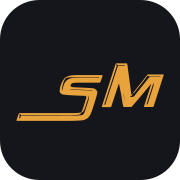
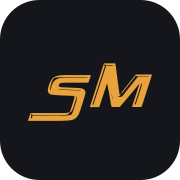
StageMate v0.6.6 · Build 85
Claude-Session: https://claude.ai/code/session_01G3z7oRcgy9Gda5m4Ku4fjU

Changed region(s): [[0.25, 0.3333, 0.9167, 0.6944], [0.0833, 0.6111, 0.1944, 0.6944], [0.3333, 0.6389, 0.3611, 0.6667]]

diff --git a/index.html b/index.html
@@ -1,18 +1,18 @@
 <!DOCTYPE html>
-<!-- StageMate v0.6.5 · Build 84 · 2026-11-27 -->
+<!-- StageMate v0.6.6 · Build 85 · 2026-11-27 -->
 <html lang="de">
 <head>
 <meta charset="UTF-8">
 <meta name="viewport" content="width=device-width, initial-scale=1">
-<title>StageMate v0.6.5</title>
-<link rel="icon" type="image/svg+xml" href="icon.svg?sm1">
-<link rel="icon" type="image/png" sizes="32x32" href="icon-32.png?sm1">
-<link rel="apple-touch-icon" href="icon-180.png?sm1">
+<title>StageMate v0.6.6</title>
+<link rel="icon" type="image/svg+xml" href="icon.svg?sm2">
+<link rel="icon" type="image/png" sizes="32x32" href="icon-32.png?sm2">
+<link rel="apple-touch-icon" href="icon-180.png?sm2">
 <link rel="manifest" href="manifest.webmanifest">
 <meta name="theme-color" content="#15161c">
 <link rel="preconnect" href="https://fonts.googleapis.com">
 <link href="https://fonts.googleapis.com/css2?family=Inter:wght@400;500;600;700&display=swap" rel="stylesheet">
-<link rel="stylesheet" href="app.css?v0.6.5">
+<link rel="stylesheet" href="app.css?v0.6.6">
 <script>
   (function () {
     var t = 'system';
@@ -27,7 +27,7 @@
 <template id="logoTpl">
   <svg viewBox="0 0 512 512" aria-label="StageMate-Logo (SM)">
     <rect width="512" height="512" rx="128" fill="#e8a33d"/>
-    <path fill="#15161c" transform="translate(4.734,-314.354) scale(9.17031)" d="m 31.184638,57.555431 q 0.06201,0 0.12919,0.175699 -0.666623,2.103224 -0.744138,2.103224 -0.144693,0.08785 -0.263549,0.08785 h -6.666238 q -2.015375,0 -2.015375,0.397907 -0.263549,0.191202 -0.263549,0.568439 0,0.480589 1.576126,0.480589 5.875592,0.191203 5.875592,0.439249 0.878497,0.439248 0.878497,1.271236 0,0.346231 -1.488277,4.955754 -0.568439,1.95853 -1.405594,2.76468 -0.98185,0.878497 -2.806022,0.878497 -1.147213,0.08785 -3.245269,0.08785 H 4.721221 q -0.062011,0 -0.1291907,-0.175699 0.6562886,-2.087721 0.7906469,-2.196241 l 0.2170403,-0.04134 H 22.192967 q 2.542472,0 2.542472,-0.351399 0.227376,0 1.534786,-4.428656 v -0.175699 q 0,-0.39274 -0.702798,-0.39274 -6.971128,-0.206705 -6.971128,-0.573607 -0.614948,-0.356566 -0.614948,-1.049028 v -0.08785 q 0.222208,-1.999872 1.317745,-3.508819 0.904335,-1.229895 4.035917,-1.229895 z m -12.500489,4.252957 v 0.351398 l 0.04651,0.222208 h 0.04134 q 0.454751,-1.927525 0.831988,-2.45979 0.878497,-1.534785 3.203929,-1.534785 0.563271,-0.04134 1.886183,-0.04134 h 5.482852 q 0.08268,0 0.08268,-0.08785 v -0.04651 h -7.451718 q -2.650993,0 -2.94038,0.351399 -0.769976,0.749306 -1.183386,3.24527 z m 2.588981,0.08785 v 0.08785 q 0,0.175699 5.829083,0.351399 0,0.02584 1.188554,0.134358 0,-0.279052 -3.379628,-0.351399 -2.930045,-0.103352 -3.638009,-0.222208 z m 5.658551,2.149733 v 0.310058 q 0,0.284219 -0.614948,1.927524 -0.749306,2.806022 -1.405594,2.806022 -0.124023,0.04651 -0.568439,0.656288 -0.620115,0.263549 -3.203929,0.263549 -12.9138991,-0.04134 -14.1799676,-0.04134 -0.60978,0.04134 -0.7854793,0.04134 -0.077514,0 -0.6149476,-0.351398 h -0.08785 q 0,0.08268 0.1291906,0.573606 -0.1756993,0.506428 -0.1756993,0.744139 0.046509,0 0.046509,0.04134 0.3100576,0 0.3927396,-0.568439 0,-0.30489 0.3927396,-0.30489 h 16.154001 q 2.986889,0 2.986889,-0.485757 0.372069,-0.39274 1.312577,-3.596669 0.351399,-0.82682 0.351399,-1.622634 l -0.04134,-0.39274 z m 8.609273,-10.128548 h 3.286611 q 0.191202,0 0.527098,3.157419 0,0.08268 0.878497,6.578389 h 0.04134 q 0.263548,-0.242878 0.263548,-0.351398 h 0.08785 v 0.04134 q -0.232543,0.749306 -0.568439,0.749306 l -0.222208,0.04134 v 0.134358 q 0.28422,0.08785 0.397908,0.08785 h 0.08785 q 0.759641,0 0.961179,-0.485757 4.113431,-5.2038 4.516506,-5.658552 0.23771,-0.04134 0.397907,-0.04134 h 2.98172 q 0.08785,0 0.08785,-0.08785 v -0.04134 H 46.28445 q -0.403074,0 -1.007687,-0.263549 h -0.04651 q -0.382405,0.604612 -1.405595,1.881016 l -2.847362,3.555327 h -0.04651 q -0.10852,0 -0.129191,-0.175699 0.103353,-0.191202 4.428657,-5.612043 l 0.263549,-0.04651 H 50.1395 q 0.06718,0 0.134358,0.134359 0,0.134358 -3.15742,9.823658 -0.160196,0.129191 -0.30489,0.129191 h -2.54764 q -0.06201,0 -0.12919,-0.175699 0.439248,-1.271237 2.278923,-7.017638 H 46.3723 q -5.043604,6.051291 -6.097799,7.193337 h -2.413282 q -0.253214,0 -0.919838,-4.563015 -0.05684,-0.01034 -0.527098,-2.630322 h -0.08785 q -2.015375,6.226991 -2.366773,7.151996 l -0.129191,0.08785 h -2.676831 q -0.08785,0 -0.08785,-0.08785 v -0.08785 q 0,-0.12919 3.901558,-12.107749 0.366901,-1.312577 0.573606,-1.312577 z m 0,0.263548 v 0.04134 q 0,0.12919 0.129191,0.573606 L 31.809928,66.7228 q 0.08785,0.04134 0.134358,0.04134 0.30489,0 0.30489,-0.439249 l 3.813709,-11.616825 h 2.149732 V 54.57371 l -0.21704,-0.04134 h -1.886184 l -0.480589,-0.3514 z m 11.487635,5.875592 q 0,0.186035 -1.751826,5.482852 l -0.351398,1.136878 h 0.12919 q 0.279052,0 0.351399,-0.527098 1.710484,-5.09528 1.710484,-5.477684 v -0.397908 l -0.04651,-0.21704 z m -9.25522,3.24527 v 0.08785 q 0.263549,1.617468 0.263549,1.798335 h 0.04651 V 65.053659 Q 37.819879,63.44136 37.819879,63.301834 Z"/>
+    <path fill="#15161c" transform="translate(-28.921,-314.354) scale(9.17031)" d="M 31.1846 57.5554 Q 31.2466 57.5554 31.3138 57.7311 Q 30.6472 59.8344 30.5697 59.8344 Q 30.4250 59.9222 30.3061 59.9222 L 23.6399 59.9222 Q 21.6245 59.9222 21.6245 60.3201 Q 21.3610 60.5113 21.3610 60.8885 Q 21.3610 61.3691 22.9371 61.3691 Q 28.8127 61.5603 28.8127 61.8084 Q 29.6912 62.2476 29.6912 63.0796 Q 29.6912 63.4259 28.2029 68.0354 Q 27.6345 69.9939 26.7973 70.8001 Q 25.8155 71.6786 23.9913 71.6786 Q 22.8441 71.7664 20.7460 71.7664 L 11.9953 71.7664 Q 11.9333 71.7664 11.8661 71.5907 Q 12.5224 69.5030 12.6568 69.3945 L 12.8738 69.3531 L 22.1930 69.3531 Q 24.7354 69.3531 24.7354 69.0017 Q 24.9628 69.0017 26.2702 64.5731 L 26.2702 64.3974 Q 26.2702 64.0046 25.5674 64.0046 Q 18.5963 63.7979 18.5963 63.4310 Q 17.9814 63.0745 17.9814 62.3820 L 17.9814 62.2941 Q 18.2036 60.2943 19.2991 58.7853 Q 20.2034 57.5554 23.3350 57.5554 Z  M 18.6841 61.8084 L 18.6841 62.1598 L 18.7307 62.3820 L 18.7720 62.3820 Q 19.2268 60.4545 19.6040 59.9222 Q 20.4825 58.3874 22.8079 58.3874 Q 23.3712 58.3461 24.6941 58.3461 L 30.1770 58.3461 Q 30.2596 58.3461 30.2596 58.2582 L 30.2596 58.2117 L 22.8079 58.2117 Q 20.1569 58.2117 19.8675 58.5631 Q 19.0976 59.3124 18.6841 61.8084 Z  M 21.2731 61.8962 L 21.2731 61.9841 Q 21.2731 62.1598 27.1022 62.3355 Q 27.1022 62.3613 28.2908 62.4698 Q 28.2908 62.1908 24.9111 62.1184 Q 21.9811 62.0151 21.2731 61.8962 Z  M 26.9317 64.0460 L 26.9317 64.3560 Q 26.9317 64.6402 26.3167 66.2836 Q 25.5674 69.0896 24.9111 69.0896 Q 24.7871 69.1361 24.3427 69.7459 Q 23.7226 70.0094 21.1388 70.0094 Q 15.4990 69.9681 14.2329 69.9681 Q 13.6231 70.0094 13.4474 70.0094 Q 13.3699 70.0094 12.8325 69.6580 L 12.7446 69.6580 Q 12.7446 69.7407 12.8738 70.2316 Q 12.6981 70.7380 12.6981 70.9758 Q 12.7446 70.9758 12.7446 71.0171 Q 13.0547 71.0171 13.1374 70.4487 Q 13.1374 70.1438 13.5301 70.1438 L 22.4100 70.1438 Q 25.3969 70.1438 25.3969 69.6580 Q 25.7690 69.2653 26.7095 66.0613 Q 27.0609 65.2345 27.0609 64.4387 L 27.0195 64.0460 Z  M 35.5410 53.9174 L 38.8276 53.9174 Q 39.0188 53.9174 39.3547 57.0748 Q 39.3547 57.1575 40.2332 63.6532 L 40.2745 63.6532 Q 40.5380 63.4104 40.5380 63.3018 L 40.6259 63.3018 L 40.6259 63.3432 Q 40.3934 64.0925 40.0575 64.0925 L 39.8353 64.1338 L 39.8353 64.2682 Q 40.1195 64.3560 40.2332 64.3560 L 40.3210 64.3560 Q 41.0807 64.3560 41.2822 63.8703 Q 45.3956 58.6665 45.7987 58.2117 Q 46.0364 58.1704 46.1966 58.1704 L 49.1783 58.1704 Q 49.2662 58.1704 49.2662 58.0825 L 49.2662 58.0412 L 46.2844 58.0412 Q 45.8814 58.0412 45.2768 57.7776 L 45.2303 57.7776 Q 44.8478 58.3823 43.8247 59.6587 L 40.9773 63.2140 L 40.9308 63.2140 Q 40.8223 63.2140 40.8016 63.0383 Q 40.9049 62.8471 45.2303 57.4262 L 45.4938 57.3797 L 50.1395 57.3797 Q 50.2067 57.3797 50.2739 57.5141 Q 50.2739 57.6484 47.1164 67.3377 Q 46.9562 67.4669 46.8115 67.4669 L 44.2639 67.4669 Q 44.2019 67.4669 44.1347 67.2912 Q 44.5740 66.0200 46.4136 60.2736 L 46.3723 60.2736 Q 41.3287 66.3249 40.2745 67.4669 L 37.8612 67.4669 Q 37.6080 67.4669 36.9414 62.9039 Q 36.8845 62.8936 36.4143 60.2736 L 36.3264 60.2736 Q 34.3111 66.5006 33.9597 67.4256 L 33.8305 67.5134 L 31.1536 67.5134 Q 31.0658 67.5134 31.0658 67.4256 L 31.0658 67.3377 Q 31.0658 67.2086 34.9673 55.2300 Q 35.3342 53.9174 35.5410 53.9174 Z  M 35.5410 54.1810 L 35.5410 54.2223 Q 35.5410 54.3515 35.6701 54.7959 L 31.8099 66.7228 Q 31.8978 66.7641 31.9443 66.7641 Q 32.2492 66.7641 32.2492 66.3249 L 36.0629 54.7081 L 38.2126 54.7081 L 38.2126 54.5737 L 37.9956 54.5324 L 36.1094 54.5324 L 35.6288 54.1810 Z  M 47.0286 60.0566 Q 47.0286 60.2426 45.2768 65.5394 L 44.9254 66.6763 L 45.0546 66.6763 Q 45.3336 66.6763 45.4060 66.1492 Q 47.1164 61.0539 47.1164 60.6715 L 47.1164 60.2736 L 47.0699 60.0566 Z  M 37.7734 63.3018 L 37.7734 63.3897 Q 38.0369 65.0072 38.0369 65.1880 L 38.0834 65.1880 L 38.0834 65.0537 Q 37.8199 63.4414 37.8199 63.3018 Z "/>
   </svg>
 </template>
 
@@ -1234,16 +1234,16 @@
   <div class="dev-body" id="devBody"></div>
 </div>
 <div class="housi-mark" aria-hidden="true" title="Housi"><svg xmlns="http://www.w3.org/2000/svg" viewBox="0 0 2000 1484" fill="currentColor"><path transform="translate(-110.1,-235.1)" d="m 1033.6,1718.2 c -7.3,-0.8 -17.9,-3.6 -23.3,-6.2 -14.5,-6.8 -26.8,-24.0 -27.0,-37.9 -0.0,-4.1 0.2,-5.4 1.8,-8.4 1.0,-1.9 2.7,-4.3 3.8,-5.3 3.3,-3.1 10.1,-6.7 16.8,-8.8 7.9,-2.4 42.5,-8.3 49.2,-8.3 8.4,0.0 23.9,3.1 23.9,4.9 0,0.8 -0.4,0.9 -20.5,4.1 -9.5,1.5 -19.7,3.4 -22.6,4.2 -14.6,4.0 -23.0,11.8 -23.0,21.4 0,6.9 5.6,18.6 12.6,26.1 6.4,6.8 8.7,8.2 12.5,7.6 9.2,-1.5 22.8,-7.6 32.8,-14.8 23.8,-17.1 41.0,-52.6 44.4,-91.6 2.1,-25.1 -4.4,-50.5 -22.4,-86.3 l -2.7,-5.5 -27.6,27.8 c -27.5,27.7 -37.9,37.3 -54.5,50.5 -15.5,12.4 -23.1,16.4 -37.2,19.8 -7.2,1.7 -8.6,1.8 -25.7,1.8 -14.7,0.0 -19.2,-0.2 -24.0,-1.2 -17.7,-3.7 -37.1,-12.6 -54.7,-25.1 -29.2,-20.7 -51.8,-59.3 -49.5,-84.3 1.1,-12.6 5.4,-21.5 14.6,-30.8 5.4,-5.4 7.2,-6.7 13.6,-9.9 14.0,-6.9 28.9,-9.5 55.0,-9.5 19.0,-0.0 27.5,0.7 39.8,3.4 8.0,1.7 12.6,3.7 13.8,5.8 1.4,2.7 0.8,4.8 -2.5,8.1 -2.5,2.4 -6.9,4.9 -20.0,11.4 -9.2,4.5 -17.9,8.4 -19.3,8.6 -3.4,0.6 -22.9,0.6 -24.4,0.0 -0.6,-0.2 -1.2,-0.6 -1.2,-0.9 0,-0.2 7.2,-4.0 16.1,-8.4 17.3,-8.5 22.4,-12.1 22.0,-15.3 -0.9,-6.7 -29.5,-10.1 -44.1,-5.2 -22.4,7.6 -36.0,28.6 -33.1,51.3 2.0,16.2 11.5,35.1 26.4,52.9 6.6,7.8 11.4,12.4 19.9,18.7 15.8,11.7 36.1,21.7 50.3,24.6 3.9,0.8 5.0,0.8 8.1,-0.1 4.2,-1.2 10.6,-4.4 15.0,-7.3 5.6,-3.7 22.4,-17.5 32.7,-26.7 9.9,-8.8 50.1,-49.2 69.2,-69.4 8.7,-9.2 9.6,-10.4 8.9,-11.8 -0.8,-1.7 -11.7,-17.1 -14.6,-20.6 l -1.9,-2.3 -2.6,4.4 c -14.9,24.8 -35.5,38.9 -63.4,43.4 -7.0,1.1 -39.6,3.9 -45.8,3.9 -5.6,0 -22.2,-6.4 -25.2,-9.7 -1.1,-1.2 -1.0,-1.3 0.4,-1.6 0.9,-0.1 10.2,-1.0 20.7,-1.8 21.7,-1.6 27.9,-2.5 37.5,-5.6 17.2,-5.5 32.9,-17.1 43.1,-31.9 3.2,-4.7 14.8,-24.0 14.8,-24.7 0,-1.6 -75.4,-80.2 -88.1,-91.9 -5.9,-5.4 -5.9,-5.4 -7.7,-4.3 -0.9,0.6 -5.9,4.1 -10.9,7.8 -11.8,8.6 -40.4,27.8 -50.4,33.7 -11.8,7.1 -43.4,23.9 -60.1,32.0 -17.9,8.6 -35.5,15.9 -50.5,20.9 -49.2,16.2 -66.3,19.8 -101.5,21.5 -33.1,1.6 -67.4,-1.3 -93.4,-8.1 -44.0,-11.4 -96.6,-39.7 -119.9,-64.5 -10.1,-10.8 -15.6,-18.7 -22.2,-32.6 -10.3,-21.5 -13.6,-39.2 -12.7,-68.2 0.6,-23.1 3.5,-37.8 10.9,-56.5 11.6,-29.1 26.0,-45.9 50.4,-58.4 16.9,-8.6 38.9,-15.0 61.9,-17.7 27.5,-3.3 74.9,-3.3 116.2,0.0 46.8,3.8 108.9,17.5 155.0,34.2 61.0,22.1 104.7,45.2 155.4,82.3 7.4,5.4 13.5,9.4 13.9,9.1 0.3,-0.2 10.7,-8.3 23.1,-17.9 l 22.4,-17.3 -21.3,-16.0 c -25.3,-19.0 -38.8,-28.5 -65.9,-46.5 -42.2,-27.9 -59.2,-37.4 -78.7,-43.9 -15.1,-5.0 -39.1,-8.2 -42.5,-5.6 -1.3,1.0 -1.3,1.0 0.0,3.0 2.2,3.0 6.8,6.2 23.2,16.1 8.3,5.0 15.7,9.8 16.4,10.5 1.2,1.3 1.1,1.3 -1.7,1.3 -3.2,0 -13.4,-3.1 -18.8,-5.9 -5.9,-3.0 -33.6,-19.8 -38.4,-23.4 -10.6,-7.8 -12.4,-12.8 -4.9,-14.2 6.5,-1.2 26.5,1.1 42.5,4.9 25.3,6.0 60.0,20.9 87.3,37.4 25.8,15.6 69.6,45.1 96.0,64.8 8.1,6.0 14.9,11.0 15.1,11.0 0.1,0 6.3,-4.6 13.7,-10.2 13.2,-10.1 42.4,-31.7 71.7,-53.3 l 15.1,-11.0 1.1,-5.1 c 0.6,-2.8 0.9,-5.7 0.7,-6.4 -0.7,-2.3 -7.4,-8.4 -12.5,-11.4 -12.9,-7.5 -30.2,-14.0 -46.2,-17.1 -15.0,-2.9 -24.0,-3.7 -38.6,-3.3 -24.4,0.7 -51.1,7.2 -57.5,13.9 l -1.5,1.6 2.1,3.6 c 3.1,5.3 4.0,7.8 5.6,15.4 1.5,7.6 1.8,17.6 0.5,17.2 -0.4,-0.1 -3.4,-4.8 -6.5,-10.3 -8.3,-14.5 -11.4,-25.4 -11.6,-40.3 -0.0,-7.6 -4.3e-4,-8.1 1.9,-11.6 3.9,-7.1 12.1,-11.2 30.3,-15.0 14.7,-3.1 25.3,-4.1 41.0,-3.7 26.0,0.6 46.7,5.7 69.1,16.8 14.2,7.1 19.1,11.5 23.9,21.4 2.9,6.2 6.0,17.0 7.0,24.6 0.2,2.0 0.6,3.6 0.7,3.6 0.1,0 2.5,-1.3 5.3,-2.9 13.2,-7.7 43.5,-20.7 58.0,-24.9 15.1,-4.3 22.0,-5.2 39.3,-5.2 11.8,0 17.5,0.3 23.3,1.2 15.1,2.5 43.3,8.7 49.1,10.8 6.5,2.4 14.0,6.3 14.4,7.5 0.5,1.5 -4.3,0.8 -22.9,-2.9 -23.4,-4.8 -30.0,-5.5 -44.4,-5.0 -20.1,0.7 -35.2,4.7 -63.7,17.2 -18.8,8.2 -33.2,16.4 -49.7,28.4 -5.5,4.0 -10.3,7.5 -10.6,7.7 -0.7,0.6 -5.2,15.6 -6.7,22.7 -0.7,3.4 -1.6,9.4 -2.1,13.3 l -0.7,7.0 3.1,7.6 c 4.3,10.3 6.0,17.2 6.4,26.3 0.2,6.2 0.1,7.5 -0.6,7.2 -1.2,-0.4 -9.0,-18.6 -11.3,-26.5 -3.0,-10.4 -4.0,-17.7 -4.5,-31.7 l -0.4,-13.4 -8.7,6.4 c -38.9,28.8 -60.2,45.0 -60.5,46.1 -0.1,0.3 16.9,13.5 37.9,29.4 l 38.1,28.7 6.6,-6.0 c 25.1,-22.9 48.5,-41.6 82.6,-65.9 49.9,-35.7 90.1,-57.4 142.0,-76.9 45.7,-17.1 82.2,-26.0 125.2,-30.4 20.5,-2.1 54.1,-1.5 87.8,1.5 72.2,6.6 117.9,22.6 175.2,61.4 46.4,31.4 61.3,49.9 66.3,82.3 2.0,12.9 1.2,29.5 -2.2,48.8 -2.9,16.1 -9.3,32.0 -18.5,45.8 -12.9,19.2 -39.2,44.0 -64.2,60.3 -38.8,25.4 -84.1,39.4 -159.3,49.5 -29.2,3.8 -34.1,4.2 -64.8,4.2 -30.0,0.0 -34.9,-0.2 -63.7,-3.8 -25.6,-3.1 -46.8,-7.9 -70.7,-15.9 -24.8,-8.3 -42.8,-16.0 -71.4,-30.6 -31.7,-16.2 -49.5,-26.6 -78.6,-45.8 l -17.3,-11.4 -1.7,1.6 c -0.9,0.8 -7.2,7.7 -14.0,15.1 -6.7,7.4 -18.4,19.9 -26.0,27.6 l -13.7,14.0 3.4,5.5 c 10.3,16.7 21.2,44.0 24.1,60.6 1.3,7.6 1.3,17.5 -0.0,23.9 -0.5,2.7 -2.7,8.9 -4.7,13.8 -3.5,8.3 -3.8,8.8 -5.8,9.0 -3.9,0.4 -22.6,-6.9 -25.1,-9.8 -0.6,-0.7 -0.0,-2.8 2.9,-9.8 2.0,-4.8 4.3,-11.3 4.9,-14.5 2.7,-13.6 -0.7,-31.8 -10.8,-56.1 -1.6,-3.9 -3.2,-7.1 -3.4,-7.1 -0.4,0 -23.2,23.4 -33.2,34.2 l -2.3,2.5 5.7,10.0 c 11.0,19.2 22.7,44.9 26.7,58.7 3.6,12.7 4.6,19.0 5.0,32.4 0.5,17.1 -1.1,29.5 -6.1,45.6 -6.7,21.9 -15.7,37.8 -28.8,50.9 -13.6,13.7 -28.9,21.7 -47.5,25.0 -6.4,1.1 -20.1,1.2 -28.7,0.2 z m 485.8,-238.3 c 27.9,-2.1 73.1,-8.9 99.0,-14.9 48.4,-11.2 84.6,-28.4 117.0,-55.4 16.0,-13.3 29.7,-27.5 38.9,-40.3 5.0,-7.0 13.2,-23.0 15.7,-31.1 5.5,-17.3 8.7,-46.0 6.7,-61.1 -4.6,-34.6 -18.7,-52.6 -65.9,-83.8 -33.9,-22.4 -49.3,-29.2 -81.5,-35.8 -29.4,-6.0 -86.5,-10.2 -115.2,-8.4 -50.4,3.1 -100.6,15.6 -158.0,39.3 -48.9,20.2 -91.4,45.5 -146.7,87.5 -27.8,21.0 -70.0,57.2 -68.5,58.6 0.3,0.2 9.9,7.4 21.3,15.9 18.3,13.6 20.9,15.3 21.9,14.4 23.8,-20.3 38.8,-32.7 65.9,-54.2 71.5,-56.9 110.3,-80.3 171.4,-103.2 29.8,-11.2 51.0,-15.3 78.7,-15.4 25.1,-0.0 43.8,3.7 64.0,13.1 29.3,13.6 47.8,31.2 58.4,55.6 6.7,15.5 10.9,30.2 11.7,40.9 1.6,23.3 -4.0,37.8 -22.2,55.8 -28.7,28.6 -57.7,42.6 -99.2,47.7 -18.6,2.2 -68.6,3.9 -72.7,2.4 -5.4,-2.0 4.9,-3.8 28.9,-4.8 10.1,-0.4 21.9,-1.0 26.1,-1.4 32.1,-2.9 62.3,-18.3 88.7,-45.5 7.8,-8.0 11.4,-12.9 15.2,-20.6 4.1,-8.3 4.7,-12.1 4.7,-26.4 -0.0,-14.5 -0.7,-18.0 -7.0,-35.3 -6.4,-17.9 -13.4,-29.3 -24.6,-40.6 -17.9,-18.0 -50.2,-33.6 -73.1,-35.2 -14.6,-1.0 -38.1,5.6 -75.6,21.5 -46.3,19.6 -83.1,43.3 -148.1,95.2 -36.2,28.9 -75.2,61.9 -75.2,63.5 0,1.4 40.7,28.8 60.6,40.8 34.1,20.5 71.5,38.8 95.4,46.7 21.3,7.0 47.9,11.7 83.6,14.7 9.7,0.8 48.3,0.8 59.2,0.0 z m -83.2,-98.3 c -10.8,-1.6 -20.9,-6.2 -30.1,-13.6 -14.6,-11.7 -21.9,-25.6 -19.7,-37.9 2.5,-14.5 14.9,-24.7 38.4,-31.5 12.2,-3.5 18.6,-4.2 35.8,-4.2 14.0,0.0 16.8,0.2 22.6,1.5 14.2,3.3 24.0,10.1 28.8,20.3 7.4,15.6 3.3,22.7 -15.2,25.9 -5.4,0.9 -43.5,0.9 -49.4,0.0 -6.3,-1.0 -4.3,-2.7 4.8,-4.0 1.9,-0.2 9.0,-0.4 15.8,-0.3 7.5,0.0 12.9,-0.1 13.7,-0.6 4.4,-2.3 4.6,-10.6 0.4,-19.0 -4.5,-9.2 -13.2,-16.0 -23.0,-18.0 -3.3,-0.6 -4.5,-0.6 -9.6,0.7 -13.7,3.6 -25.9,11.7 -30.3,20.1 -6.9,13.1 -3.0,26.9 11.8,41.0 7.8,7.4 15.2,12.0 23.2,14.4 3.3,1.0 3.9,0.9 13.5,-1.0 8.4,-1.7 11.7,-2.1 20.5,-2.1 10.3,-0.0 14.2,0.3 14.2,1.6 0,0.8 -3.2,1.7 -17.7,4.6 -11.1,2.2 -12.7,2.4 -28.2,2.6 -9.0,0.1 -18.2,-0.0 -20.5,-0.4 z m -318.5,72.0 15.2,-15.5 -4.6,-6.8 c -7.6,-11.2 -24.5,-31.4 -26.2,-31.4 -0.4,0 -10.4,16.5 -17.4,28.9 -3.3,5.9 -10.1,17.6 -11.2,19.5 l -1.2,2.1 7.0,8.0 c 3.8,4.4 8.9,10.4 11.2,13.4 l 4.2,5.4 3.9,-4.0 c 2.1,-2.2 10.7,-11.0 19.1,-19.5 z m -465.9,-0.1 c 27.5,-1.6 43.9,-5.1 83.6,-17.8 29.6,-9.4 49.9,-18.2 84.8,-36.5 38.4,-20.2 53.2,-29.4 92.0,-57.6 11.8,-8.6 14.6,-10.9 13.9,-11.6 -15.3,-13.9 -49.3,-37.5 -75.9,-52.6 -50.1,-28.5 -90.9,-44.7 -130.9,-51.9 -29.6,-5.3 -69.7,-1.0 -92.3,9.8 -12.9,6.2 -26.2,17.9 -34.3,30.2 -7.6,11.6 -9.5,18.5 -9.5,34.2 0.0,10.9 0.1,11.7 2.2,17.9 3.9,11.8 12.8,24.6 25.7,37.0 11.0,10.6 20.1,16.9 32.4,22.3 l 5.1,2.2 5.5,-1.1 c 10.9,-2.2 24.7,-11.0 28.3,-17.9 1.6,-3.2 1.8,-9.1 0.3,-12.6 -1.3,-3.3 -7.0,-10.6 -9.5,-12.5 l -2.1,-1.5 -6.4,1.8 c -7.0,2.0 -11.8,2.2 -20.3,1.1 -6.1,-0.8 -14.2,-3.1 -14.2,-4.1 0,-0.6 10.5,-4.1 18.1,-5.8 11.7,-2.7 33.4,0.0 45.8,5.9 9.9,4.7 18.5,14.8 19.4,22.8 0.5,4.7 -0.1,7.6 -2.6,11.4 -3.8,5.8 -15.4,13.1 -25.8,16.3 -14.6,4.5 -39.2,3.1 -58.6,-3.3 -18.4,-6.1 -33.8,-16.3 -49.0,-32.2 -11.6,-12.2 -18.7,-23.3 -22.3,-34.9 -1.7,-5.7 -1.9,-7.2 -1.9,-17.4 0.0,-10.1 0.1,-11.7 1.9,-17.4 3.4,-11.2 8.3,-19.2 18.1,-29.5 19.0,-19.9 44.4,-28.9 88.4,-31.4 42.8,-2.4 95.3,7.5 145.8,27.5 39.3,15.6 86.4,41.9 123.6,69.2 l 9.4,6.8 2.7,-1.9 c 1.5,-1.0 5.9,-4.4 9.7,-7.4 3.8,-2.9 10.8,-8.3 15.5,-11.9 4.6,-3.6 8.5,-6.7 8.5,-7.0 0,-0.6 -34.6,-26.4 -45.3,-33.8 -62.2,-43.0 -125.9,-68.2 -206.5,-81.8 -36.0,-6.0 -52.5,-7.2 -100.1,-7.2 -30.3,-0.0 -38.4,0.1 -47.7,1.2 -31.1,3.4 -58.4,12.1 -77.4,24.8 -16.8,11.2 -26.4,23.5 -37.4,48.3 -4.3,9.7 -9.3,28.2 -10.5,39.1 -0.2,1.9 -0.5,4.2 -0.6,5.2 -0.1,0.9 -0.4,7.3 -0.7,14.2 -0.6,19.5 1.3,36.8 5.8,50.4 6.4,19.5 15.2,34.6 28.0,48.3 6.5,6.9 14.0,12.9 26.1,21.0 27.6,18.3 47.1,25.8 77.7,29.9 17.0,2.3 42.5,3.0 63.4,1.7 z m 409.5,-43.3 c 5.3,-9.2 11.9,-20.1 14.5,-24.1 l 4.8,-7.2 -5.5,-5.2 c -10.0,-9.4 -72.0,-62.0 -76.0,-64.4 -0.4,-0.2 -5.2,2.9 -11.8,8.0 -6.0,4.7 -14.3,11.0 -18.4,14.1 -4.1,3.0 -7.4,5.7 -7.4,5.9 -0.0,0.2 3.4,3.4 7.8,7.2 8.7,7.7 42.1,41.1 66.0,66.1 8.6,9.0 15.8,16.4 16.0,16.4 0.1,0.0 4.7,-7.5 10.1,-16.8 z m 109.4,-12.0 c 5.8,-6.5 13.9,-15.0 18.0,-18.8 l 7.4,-6.9 -12.0,-8.7 c -6.6,-4.8 -16.2,-11.8 -21.4,-15.7 l -9.4,-6.9 -6.5,6.4 c -10.0,9.8 -23.0,24.0 -30.3,33.0 l -6.6,8.1 14.7,15.0 c 8.1,8.2 16.0,16.7 17.5,18.7 l 2.7,3.6 7.5,-7.8 c 4.1,-4.3 12.3,-13.2 18.2,-19.7 z m -71.1,-41.7 c 3.4,-3.8 11.9,-12.6 18.9,-19.5 l 12.7,-12.5 -38.4,-28.8 c -21.1,-15.8 -38.7,-28.8 -39.2,-28.8 -0.4,-0.0 -4.7,2.9 -9.4,6.5 -19.6,15.1 -34.5,26.6 -35.6,27.7 -1.1,1.0 -0.7,1.5 6.2,7.0 12.5,9.9 41.5,33.9 57.9,47.9 l 15.6,13.3 2.4,-2.9 c 1.3,-1.6 5.2,-6.0 8.6,-9.9 z m 159.0,253.2 c -14.2,-1.8 -32.3,-7.3 -44.3,-13.5 -8.6,-4.4 -14.8,-9.0 -26.0,-19.0 -6.9,-6.2 -7.9,-7.3 -6.9,-7.9 1.8,-1.0 13.8,-0.0 21.2,1.6 l 6.3,1.4 8.9,7.8 c 14.3,12.5 22.8,18.0 34.4,21.9 5.2,1.7 6.3,1.9 9.4,1.3 6.0,-1.1 11.0,-4.0 16.7,-9.7 13.2,-13.4 21.7,-34.5 24.4,-60.9 1.3,-12.9 -1.1,-26.2 -6.7,-35.8 -3.4,-5.8 -12.1,-14.9 -18.7,-19.5 -9.1,-6.3 -24.8,-12.5 -32.0,-12.7 -5.8,-0.1 -12.4,4.4 -15.2,10.6 -1.2,2.6 -1.4,4.4 -1.4,11.8 0,7.2 0.2,9.3 1.5,12.8 3.7,10.0 9.7,17.0 25.2,29.6 5.7,4.6 10.4,8.7 10.4,9.1 0,0.8 -11.8,0.7 -17.0,-0.0 -9.1,-1.5 -11.1,-2.4 -20.8,-10.2 -11.2,-9.0 -17.0,-14.6 -21.0,-20.0 -6.7,-9.3 -9.0,-16.9 -8.5,-27.3 0.4,-8.2 3.0,-14.1 8.0,-17.9 5.3,-4.0 9.1,-4.8 23.5,-4.8 13.7,0.0 22.3,1.2 38.2,5.2 33.8,8.5 55.2,25.2 62.5,48.7 1.4,4.6 1.6,6.5 1.6,17.7 -0.0,10.9 -0.2,13.6 -1.8,21.3 -2.4,11.4 -5.3,20.0 -9.2,27.9 -8.9,17.8 -19.1,27.2 -32.7,30.1 -5.3,1.1 -21.8,1.2 -29.8,0.2 z M 173.1,1266.2 c -13.7,-2.0 -25.2,-6.5 -37.8,-14.8 -13.8,-9.1 -19.9,-18.7 -23.8,-37.8 -2.0,-10.0 -1.6,-22.8 0.9,-30.8 7.1,-21.8 23.0,-39.5 46.5,-51.8 9.0,-4.7 21.2,-9.6 28.9,-11.5 5.7,-1.4 8.1,-1.6 21.6,-1.7 20.8,-0.0 20.3,-0.1 18.8,0.7 -0.7,0.4 -6.5,2.8 -12.9,5.4 -18.4,7.4 -26.6,11.9 -36.8,20.3 -8.7,7.1 -12.1,11.9 -15.5,21.9 -3.8,11.6 -4.2,21.8 -1.3,33.1 3.3,12.7 14.7,24.6 27.3,28.6 4.0,1.2 6.5,1.5 14.6,1.5 8.9,-0.0 10.4,-0.2 17.7,-2.2 9.5,-2.7 22.7,-9.0 29.6,-14.2 6.2,-4.7 17.3,-15.8 24.1,-24.2 12.2,-15.2 24.0,-36.0 30.8,-54.6 10.7,-29.2 19.0,-63.2 21.3,-87.1 0.8,-8.9 2.3,-81.0 1.6,-82.0 -0.2,-0.3 -1.1,1.6 -2.1,4.5 -3.0,9.6 -13.6,28.8 -22.6,40.9 -8.0,10.8 -20.8,22.9 -32.9,31.0 -10.4,7.0 -27.9,13.9 -39.3,15.5 -15.7,2.2 -36.4,-1.8 -52.3,-10.3 -17.5,-9.4 -33.0,-22.6 -41.0,-35.0 -9.9,-15.5 -17.4,-44.0 -17.5,-66.3 -0.0,-22.8 6.5,-53.0 15.8,-72.3 7.4,-15.4 17.1,-29.9 26.9,-40.3 10.1,-10.6 31.2,-27.1 44.6,-34.8 15.7,-9.0 44.1,-18.2 64.0,-20.6 12.1,-1.4 41.0,-2.7 48.6,-2.1 l 6.1,0.4 -0.3,-51.8 c -0.2,-38.2 -0.6,-55.7 -1.4,-66.8 -1.4,-18.7 -2.4,-53.3 -2.0,-67.6 0.2,-9.7 0.1,-11.1 -1.0,-13.9 -1.9,-4.4 -5.5,-8.3 -12.0,-13.2 -7.8,-5.9 -14.6,-9.8 -39.3,-22.5 -37.4,-19.2 -56.9,-30.3 -76.3,-43.2 -15.2,-10.1 -22.1,-15.5 -31.0,-24.5 -9.8,-9.7 -15.1,-16.5 -22.7,-29.2 -14.5,-23.9 -21.5,-44.3 -21.6,-63.5 -0.1,-14.5 2.4,-20.9 13.8,-33.3 9.4,-10.3 10.4,-10.6 6.3,-1.7 -3.1,6.8 -4.3,11.4 -5.2,19.5 -2.1,19.1 0.6,32.3 11.0,53.8 6.2,12.7 11.6,20.3 22.3,31.0 14.0,14.1 26.2,22.6 59.9,41.9 36.0,20.6 57.9,30.5 96.3,43.6 31.1,10.5 51.4,16.2 70.1,19.5 26.3,4.7 80.4,8.0 112.6,6.8 31.6,-1.1 81.7,-9.9 119.9,-21.1 18.9,-5.5 55.5,-18.3 71.7,-25.0 3.4,-1.4 7.8,-3.0 9.7,-3.5 4.6,-1.2 12.3,-1.2 17.3,0.0 5.4,1.4 16.6,6.0 16.9,7.0 0.1,0.4 -4.1,2.1 -11.1,4.4 -14.1,4.4 -24.7,8.2 -36.4,12.7 -16.9,6.5 -32.0,11.4 -74.4,24.2 -32.0,9.6 -41.6,12.0 -72.6,17.7 -32.9,6.0 -31.3,5.9 -77.6,6.3 -38.8,0.3 -54.8,-0.0 -66.7,-1.6 l -3.1,-0.4 0.3,76.9 c 0.3,68.8 0.9,98.3 2.2,116.0 l 0.4,5.6 12.6,4.5 c 19.5,6.9 41.8,13.2 65.2,18.3 11.5,2.4 27.0,3.1 31.7,1.3 3.5,-1.3 6.1,-4.1 7.4,-7.9 0.6,-1.9 0.9,-19.7 1.2,-69.8 l 0.4,-67.2 -1.6,-10.4 c -3.1,-20.0 -6.2,-26.3 -23.0,-45.7 -5.5,-6.4 -7.1,-9.1 -7.1,-12.4 0,-3.1 1.6,-3.4 5.5,-1.1 16.0,9.5 30.3,12.3 55.6,10.8 33.0,-1.9 46.7,-4.5 72.2,-14.1 22.0,-8.2 31.3,-10.2 36.9,-7.8 3.5,1.4 8.2,5.4 7.1,6.0 -0.4,0.2 -5.7,1.7 -11.5,3.3 -29.6,8.0 -37.6,13.7 -47.8,33.9 -6.2,12.3 -9.3,24.8 -11.5,45.9 -0.7,7.6 -1.7,16.2 -2.1,19.0 -0.8,6.2 -0.8,238.2 0.0,290.7 0.6,39.0 0.8,41.3 5.5,64.8 3.4,17.0 7.3,27.2 13.1,34.6 3.3,4.2 10.3,10.0 20.3,16.7 8.7,5.9 11.3,8.4 11.0,10.7 -0.2,1.4 -0.6,1.6 -4.0,1.8 -7.2,0.4 -22.6,-3.0 -36.9,-8.3 -16.4,-6.0 -18.6,-6.4 -43.5,-6.4 -27.7,-0.0 -40.5,1.6 -65.8,8.6 -12.9,3.5 -16.7,4.0 -19.2,2.4 -1.6,-1.1 -1.8,-1.5 -1.5,-4.6 0.4,-4.5 3.1,-7.3 12.9,-13.1 8.9,-5.3 14.3,-10.2 19.3,-17.7 6.8,-10.3 10.9,-20.4 13.6,-33.2 1.3,-6.5 1.5,-10.5 2.0,-46.2 0.3,-21.4 0.7,-59.5 0.9,-84.5 l 0.4,-45.5 -3.6,0.5 c -6.1,0.9 -24.6,0.4 -34.6,-0.7 -23.9,-3.0 -65.8,-13.1 -80.9,-19.5 -0.9,-0.4 -1.1,0.5 -1.5,6.7 -0.2,3.9 -0.7,47.4 -1.1,96.6 -0.6,94.7 -0.6,95.9 2.4,113.0 3.6,20.0 5.5,23.2 25.0,44.2 5.9,6.4 10.7,11.8 10.5,11.9 -0.1,0.1 -2.5,0.0 -5.2,-0.3 -11.0,-1.5 -31.0,3.3 -44.7,10.8 -2.4,1.3 -9.8,6.0 -16.3,10.5 -25.7,17.4 -32.6,23.3 -45.9,39.8 -33.0,40.9 -50.3,57.6 -76.1,73.3 -25.6,15.6 -42.2,21.2 -64.9,21.7 -5.9,0.1 -11.7,0.1 -12.9,-0.0 z m 65.6,-223.8 c 13.8,-4.7 28.5,-13.5 39.2,-23.5 18.2,-17.1 33.5,-43.8 37.0,-64.5 1.2,-7.2 0.5,-19.4 -1.3,-24.3 -3.0,-7.7 -11.9,-15.1 -22.3,-18.6 -14.3,-4.7 -37.4,2.0 -52.5,15.4 -7.0,6.2 -11.1,15.1 -11.9,25.9 -0.6,7.9 0.5,12.6 4.3,18.3 2.4,3.5 2.9,4.7 2.2,5.2 -0.5,0.3 -4.2,0.5 -8.2,0.4 -6.3,-0.1 -7.8,-0.4 -11.3,-2.1 -11.2,-5.5 -21.4,-25.8 -21.4,-42.8 0,-7.7 1.4,-13.5 5.5,-22.1 8.1,-16.8 19.4,-27.5 37.5,-35.4 18.2,-7.9 40.0,-8.7 57.5,-2.1 6.3,2.3 11.5,5.6 18.2,11.4 6.9,6.0 12.0,12.3 15.1,18.7 l 2.3,4.9 0.4,-30.0 c 0.2,-16.5 0.6,-36.5 0.9,-44.4 l 0.4,-14.3 -3.4,-0.4 c -7.4,-1.0 -28.7,-1.3 -36.5,-0.5 -14.5,1.4 -41.4,7.4 -57.0,12.6 -21.1,6.9 -46.0,23.4 -64.5,42.6 -8.0,8.3 -12.7,15.1 -18.0,25.9 -6.4,13.2 -8.8,22.1 -10.2,38.5 -0.9,10.8 -0.1,25.1 1.8,34.6 2.6,12.2 9.3,28.6 15.7,38.0 9.7,14.4 30.9,28.0 53.2,34.1 7.6,2.0 18.9,1.5 27.3,-1.3 z m 85.3,-218.0 c 0.1,-0.7 0.7,-1.2 1.2,-1.2 1.4,0 1.2,2.0 -0.2,2.3 -0.9,0.1 -1.2,-0.1 -1.0,-1.0 z m 74.2,-134.9 c -0.1,-0.8 -0.3,-0.3 -0.3,1.2 -0.0,1.5 0.1,2.2 0.3,1.5 0.1,-0.6 0.1,-1.9 0.0,-2.7 z M 1955.1,1224.8 c -30.3,-2.7 -49.8,-10.9 -85.0,-35.6 -13.7,-9.6 -24.3,-18.0 -38.4,-30.7 -31.1,-27.8 -50.8,-39.1 -75.4,-43.0 -2.6,-0.4 -6.5,-1.1 -8.6,-1.5 l -3.8,-0.7 11.9,-5.7 c 10.3,-5.0 12.6,-6.4 16.8,-10.4 8.0,-7.6 12.8,-15.8 15.4,-26.4 2.5,-10.2 2.9,-24.9 2.0,-75.2 -1.3,-80.0 -4.1,-231.4 -4.5,-245.0 -1.1,-36.1 -1.9,-60.7 -3.1,-92.3 -0.7,-19.1 -1.3,-42.6 -1.3,-52.1 v -17.3 l -27.3,0.6 c -58.0,1.2 -152.0,0.0 -172.6,-2.2 -22.7,-2.5 -83.4,-12.8 -108.9,-18.4 -14.6,-3.2 -32.7,-7.8 -74.6,-19.0 -53.1,-14.1 -59.2,-15.9 -92.0,-26.6 -19.6,-6.4 -45.4,-14.1 -64.8,-19.2 -9.1,-2.4 -8.7,-3.1 3.2,-6.9 13.5,-4.3 17.8,-5.3 25.9,-5.7 9.5,-0.5 16.9,0.8 31.6,6.0 31.5,11.1 83.4,26.7 115.6,34.8 41.7,10.4 94.5,19.7 137.4,24.3 31.8,3.3 49.4,4.2 86.6,4.2 65.0,-0.0 103.4,-3.3 154.4,-13.3 53.2,-10.4 93.9,-24.3 150.2,-51.4 33.4,-16.0 64.8,-34.8 83.6,-49.8 9.6,-7.7 22.0,-20.4 27.7,-28.2 4.9,-6.9 16.6,-29.5 21.0,-40.7 6.4,-16.3 9.7,-32.9 9.7,-49.0 0.0,-13.0 -0.5,-15.4 -6.0,-23.8 -1.6,-2.4 -3.2,-5.2 -3.7,-6.3 l -0.8,-1.8 1.8,1.1 c 7.8,4.9 17.2,11.9 20.2,15.1 7.6,8.1 10.7,18.3 10.7,35.2 -0.0,26.5 -8.5,52.2 -26.7,81.3 -13.8,22.0 -26.5,35.9 -46.6,50.8 -18.3,13.7 -22.6,16.3 -67.9,41.0 -62.2,33.9 -79.4,44.1 -87.5,51.7 -5.6,5.2 -7.1,8.1 -8.7,16.5 -1.4,7.1 -1.3,3.5 -0.2,136.9 0.3,43.1 0.6,86.8 0.6,97.2 v 18.8 l 9.2,2.7 c 14.5,4.2 57.3,18.7 69.7,23.6 25.9,10.1 46.3,20.9 69.0,36.1 34.8,23.3 55.5,47.5 65.8,76.8 8.2,23.3 7.8,40.6 -1.3,60.0 -4.2,9.0 -7.8,14.1 -13.3,19.5 -11.3,10.8 -28.4,18.7 -50.4,23.2 -23.5,4.8 -40.3,3.1 -58.6,-5.7 -18.1,-8.8 -27.5,-22.5 -30.1,-44.0 -3.5,-28.9 6.6,-53.8 25.7,-62.6 9.1,-4.2 18.7,-4.1 37.9,0.2 12.0,2.7 13.5,3.2 12.8,3.8 -0.1,0.1 -5.1,1.0 -10.9,2.0 -15.4,2.5 -21.8,6.1 -28.2,15.8 -4.1,6.2 -5.4,10.9 -5.7,20.7 -0.5,14.7 2.6,26.3 9.1,33.3 6.9,7.4 18.3,9.3 35.1,5.9 11.5,-2.3 20.2,-7.1 28.0,-15.4 10.3,-11.0 15.5,-25.1 13.7,-37.8 -2.6,-19.1 -21.1,-50.7 -40.9,-69.6 -13.7,-13.1 -31.0,-23.7 -59.3,-36.2 -22.3,-9.8 -39.4,-15.8 -61.9,-21.4 -7.7,-1.9 -14.3,-3.5 -14.7,-3.5 -0.3,0 -0.9,2.5 -1.4,5.7 -1.7,12.3 -2.4,32.4 -2.4,70.9 -0.0,33.2 0.2,44.8 1.5,68.3 0.8,15.5 2.0,37.0 2.6,47.7 0.5,10.7 1.3,21.5 1.7,24.0 1.2,8.2 4.1,17.6 7.5,24.7 3.9,8.2 14.1,23.7 21.5,32.6 8.0,9.6 20.7,22.3 27.2,27.3 17.0,12.8 42.4,22.2 62.4,23.1 32.6,1.4 55.9,-9.9 67.5,-33.1 2.5,-4.9 5.4,-12.3 10.2,-26.0 0.3,-1.0 0.9,-1.9 1.2,-1.9 0.9,0 6.1,16.7 6.6,21.2 0.9,8.8 -2.5,22.3 -8.6,32.7 -5.5,9.5 -14.1,17.5 -27.3,25.5 -10.0,6.0 -22.9,10.1 -38.1,12.1 -9.5,1.2 -41.2,1.8 -50.9,1.0 z m 131.4,-920.7 c -0.2,-0.3 -0.7,-0.6 -1.1,-0.6 -0.3,0 -0.5,0.3 -0.2,0.6 0.2,0.3 0.7,0.6 1.1,0.6 0.3,0 0.5,-0.3 0.2,-0.6 z M 758.8,1104.8 c -10.4,-1.6 -29.8,-8.0 -37.3,-12.3 -11.8,-6.7 -23.6,-17.5 -37.0,-33.6 -8.9,-10.7 -12.2,-15.8 -18.1,-27.8 -8.1,-16.5 -13.7,-32.4 -19.8,-56.7 -7.4,-29.6 -9.7,-62.3 -9.1,-128.5 0.5,-58.6 3.5,-86.3 13.1,-121.2 8.6,-31.5 18.6,-58.6 27.8,-75.1 16.8,-30.3 48.5,-55.2 76.9,-60.4 6.4,-1.1 33.6,-1.1 37.9,0.0 10.7,2.9 33.0,13.1 42.2,19.3 10.2,6.8 21.3,19.1 32.5,36.3 5.4,8.3 10.0,17.7 16.0,33.2 9.4,24.2 13.4,38.8 18.0,67.3 3.5,21.3 4.3,31.3 5.6,64.4 2.2,58.2 1.0,85.1 -5.6,129.8 -4.6,30.9 -10.4,54.0 -19.5,77.1 -8.6,21.8 -17.1,35.5 -35.1,56.4 -9.1,10.6 -18.7,18.1 -31.3,24.4 -7.5,3.8 -13.3,5.6 -20.5,6.5 -8.0,0.9 -32.0,1.4 -36.7,0.7 z m 27.1,-37.0 c 8.8,-2.7 20.2,-12.3 27.0,-22.8 8.5,-13.2 13.7,-29.5 18.0,-56.5 1.7,-10.7 4.4,-33.8 5.2,-43.6 2.0,-26.5 1.3,-173.8 -0.9,-196.8 -2.1,-21.3 -6.0,-52.8 -7.6,-62.4 -4.0,-23.4 -12.0,-42.1 -22.4,-52.6 -7.5,-7.5 -19.7,-13.8 -26.9,-13.8 -11.1,0.0 -25.3,5.5 -33.1,12.8 -10.6,9.9 -15.6,20.1 -24.8,50.9 -5.0,16.7 -7.8,44.8 -10.8,107.3 -0.4,8.8 -0.8,17.2 -0.9,18.8 -0.3,4.6 0.9,101.6 1.7,124.0 0.3,11.5 1.1,25.4 1.7,31.0 1.1,12.2 5.4,40.9 7.2,49.3 3.0,13.8 7.6,25.0 13.9,33.6 4.4,6.0 17.2,18.2 21.2,20.2 6.1,2.9 22.7,3.3 31.5,0.6 z m 610.4,31.4 c -8.8,-0.7 -20.5,-2.8 -27.2,-4.9 -24.6,-7.6 -64.2,-36.1 -79.1,-56.9 -14.2,-19.9 -23.3,-44.7 -26.3,-71.5 -1.8,-16.8 0.3,-35.7 5.9,-51.8 5.7,-16.5 11.8,-24.6 24.9,-33.0 15.7,-10.1 24.2,-12.5 45.1,-12.6 12.0,-0.0 14.2,0.1 19.6,1.5 18.8,4.9 44.6,18.5 57.2,30.1 8.8,8.1 13.8,17.1 17.3,31.1 2.1,8.7 2.1,22.0 -0.0,29.7 -3.4,11.9 -10.0,22.9 -18.3,30.6 -4.8,4.5 -8.4,6.5 -12.6,7.1 -4.2,0.5 -7.7,-0.5 -14.3,-4.8 -6.5,-4.2 -6.5,-4.0 0.6,-6.3 15.8,-5.0 21.3,-11.3 23.0,-26.5 1.5,-13.5 -0.9,-20.8 -10.0,-30.0 -6.5,-6.5 -14.0,-11.2 -22.3,-14.0 -5.0,-1.6 -6.5,-1.8 -16.3,-1.8 -18.8,-0.0 -31.4,3.9 -40.4,12.8 -5.0,4.9 -7.3,9.5 -8.7,17.2 -2.9,16.8 -3.1,44.4 -0.4,54.8 1.8,7.0 7.2,18.1 11.7,24.0 4.4,5.8 12.5,13.4 18.2,17.3 13.1,8.6 40.0,19.3 55.6,22.1 18.7,3.2 46.9,-1.5 67.3,-11.5 8.7,-4.2 14.4,-8.5 22.4,-16.9 15.8,-16.5 21.1,-31.5 21.1,-59.7 0,-23.4 -3.1,-39.0 -10.4,-51.8 -5.3,-9.4 -19.1,-24.8 -34.8,-39.2 -14.9,-13.6 -25.3,-20.6 -55.3,-36.6 -26.5,-14.2 -52.7,-30.5 -66.7,-41.6 -18.9,-14.9 -35.2,-34.2 -42.7,-50.3 -4.4,-9.5 -8.6,-23.4 -10.8,-35.7 -2.1,-12.0 -2.0,-33.8 0.2,-43.4 4.7,-20.2 21.1,-48.8 36.7,-63.8 7.7,-7.5 13.7,-11.2 25.0,-15.8 15.3,-6.2 26.0,-8.8 41.2,-10.2 26.4,-2.4 64.8,6.5 108.1,25.1 l 9.7,4.1 6.4,-6.1 c 10.6,-10.2 17.1,-12.4 32.4,-11.0 4.8,0.4 8.8,1.0 8.8,1.2 0,0.2 -2.3,1.6 -5.2,3.1 -5.7,2.9 -16.2,11.3 -21.5,17.2 -7.2,8.0 -10.3,14.3 -13.2,27.0 -3.6,15.9 -4.5,26.6 -5.1,60.2 -0.4,23.9 -0.8,32.7 -1.6,37.2 -2.4,13.0 -5.6,19.9 -10.4,22.9 -1.9,1.2 -4.1,1.7 -8.9,2.0 -3.5,0.2 -6.6,0.2 -7.0,-0.0 -0.3,-0.3 0.8,-3.5 2.9,-8.0 5.6,-11.7 6.6,-16.2 6.6,-31.2 0.0,-16.8 -2.1,-29.4 -8.2,-47.1 -9.0,-26.2 -23.1,-42.4 -47.3,-54.5 -17.4,-8.6 -38.9,-10.8 -58.1,-5.9 -11.1,2.8 -22.6,10.3 -33.1,21.6 -15.8,17.0 -18.1,35.7 -7.3,60.4 8.7,20.1 20.1,28.6 76.1,56.8 26.4,13.2 32.4,16.6 44.1,24.2 25.3,16.7 52.6,39.1 69.9,57.5 28.1,29.8 37.0,44.5 44.3,72.8 6.2,24.1 6.2,49.6 -0.0,73.8 -3.7,14.6 -8.5,25.2 -17.8,39.4 -15.9,24.3 -34.3,40.5 -62.0,54.4 -21.6,10.8 -41.6,15.0 -74.1,15.5 -9.2,0.1 -20.1,-0.0 -24.3,-0.3 z m 347.4,-0.9 c -0.4,-0.4 -45.2,-7.2 -55.7,-8.4 -21.1,-2.4 -63.1,-2.0 -96.1,1.0 -7.4,0.6 -13.6,1.1 -13.8,1.0 -0.1,-0.0 2.6,-2.6 6.2,-5.6 18.9,-15.9 24.3,-23.2 29.4,-40.0 2.8,-9.3 4.9,-18.6 6.8,-30.5 1.3,-8.1 1.4,-13.9 2.1,-83.9 0.3,-41.4 0.7,-91.9 0.7,-112.2 0.0,-48.4 -1.4,-156.3 -2.2,-165.0 -0.8,-9.2 -2.1,-11.6 -13.6,-25.5 -5.2,-6.2 -10.9,-13.4 -12.6,-15.8 -4.2,-5.9 -3.6,-6.4 5.2,-4.4 14.8,3.2 15.2,3.2 50.3,3.2 38.2,-0.0 36.0,0.1 78.2,-7.3 10.6,-1.9 20.1,-3.4 21.1,-3.4 h 1.8 l -1.6,1.2 c -0.9,0.7 -5.4,3.4 -10.0,6.0 -10.0,5.7 -17.6,10.7 -21.4,14.1 -6.4,5.8 -11.9,15.8 -14.6,26.4 -1.4,5.7 -1.5,7.6 -1.5,33.6 -0.0,15.1 0.4,55.6 0.9,89.9 1.1,70.0 0.7,137.0 -0.9,183.6 -1.6,43.1 -1.6,69.3 -0.0,78.0 1.6,9.1 4.4,17.4 8.8,26.2 7.3,14.7 13.2,21.3 26.8,30.5 4.1,2.7 8.3,5.6 9.2,6.3 l 1.6,1.3 h -2.4 c -1.3,0 -2.5,-0.1 -2.7,-0.2 z m -5.2,-492.4 c 0.2,-0.3 -0.2,-0.4 -1.0,-0.2 -1.6,0.4 -1.8,0.8 -0.3,0.8 0.5,0 1.1,-0.2 1.3,-0.6 z M 1082.1,1083.3 c -6.5,-0.2 -14.9,-1.0 -18.7,-1.6 -14.3,-2.3 -33.3,-7.8 -46.4,-13.4 -16.6,-7.0 -24.9,-13.5 -36.9,-28.4 -11.0,-13.7 -15.3,-21.9 -17.1,-32.5 -1.2,-7.0 -1.1,-22.7 0.4,-74.0 0.5,-18.0 0.5,-47.8 0.0,-105.9 -0.3,-44.4 -0.7,-99.2 -0.7,-121.6 -0.0,-45.1 -0.5,-56.2 -2.7,-62.2 -2.6,-7.0 -11.8,-18.1 -19.8,-23.8 -6.0,-4.2 -19.2,-11.4 -21.0,-11.4 -1.7,0 -2.2,-1.8 -0.6,-2.5 0.5,-0.2 4.2,0.1 8.3,0.7 21.3,3.1 60.0,5.6 80.2,5.0 17.1,-0.4 26.0,-1.7 43.5,-6.2 20.2,-5.2 18.2,-4.8 17.2,-3.0 -2.1,4.0 -10.1,15.5 -13.8,19.7 -5.6,6.5 -7.2,9.3 -9.3,16.3 -4.8,16.8 -5.6,35.9 -4.6,112.4 0.4,32.2 0.9,67.3 1.1,78.0 0.2,10.7 0.0,45.8 -0.4,78.1 -0.9,63.5 -0.7,68.8 2.5,85.0 3.2,16.1 6.3,22.1 16.7,32.7 6.1,6.2 7.7,7.4 13.5,10.2 15.6,7.4 36.7,8.8 56.8,3.6 18.1,-4.7 26.7,-11.1 34.0,-25.4 5.7,-11.1 8.1,-21.8 9.4,-42.1 1.0,-17.2 1.8,-296.1 0.8,-303.5 -2.7,-20.1 -9.0,-29.8 -31.6,-49.3 l -11.9,-10.2 4.8,-0.2 c 5.4,-0.2 18.9,0.7 30.6,2.3 16.0,2.1 31.0,3.6 40.0,4.1 16.4,0.8 31.0,-1.9 62.3,-11.8 9.1,-2.9 17.1,-5.2 17.6,-5.2 0.5,0 -4.1,5.4 -10.4,12.0 -23.3,24.6 -26.9,30.0 -31.9,48.8 -6.7,25.4 -7.6,45.1 -8.0,168.7 -0.3,100.1 -0.9,139.6 -2.6,155.1 -2.7,25.2 -8.8,43.0 -19.6,57.4 -6.3,8.4 -17.3,19.7 -24.1,24.8 -10.1,7.6 -26.6,14.2 -42.0,16.9 -13.1,2.2 -44.5,3.4 -65.4,2.5 z M 931.0,609.5 c -0.2,-0.2 -0.8,-0.2 -1.3,-0.0 -0.5,0.2 -0.3,0.3 0.4,0.4 0.7,0.0 1.1,-0.1 0.9,-0.3 z m -27.6,-29.2 c -0.9,-0.1 -4.4,-0.6 -7.8,-1.0 -3.3,-0.4 -6.2,-1.0 -6.4,-1.3 -0.8,-1.4 10.6,-5.5 20.4,-7.2 5.1,-0.8 6.6,-0.8 12.2,0.0 3.5,0.5 7.7,1.0 9.4,1.0 4.1,0.0 25.7,-6.2 35.2,-10.2 16.0,-6.7 50.4,-25.3 64.8,-35.1 1.1,-0.7 5.1,-3.3 8.8,-5.7 l 6.7,-4.2 -13.2,-6.7 -13.2,-6.7 -8.8,5.7 c -8.9,5.8 -36.0,21.8 -50.8,30.0 -42.5,23.4 -87.4,32.5 -119.2,24.3 -18.6,-4.8 -40.3,-15.6 -51.7,-25.9 -11.2,-10.0 -19.4,-26.2 -19.4,-38.3 0,-6.6 1.3,-11.5 4.8,-17.4 10.1,-17.0 27.6,-27.4 54.0,-32.1 11.2,-2.0 31.2,-2.2 37.9,-0.4 9.8,2.6 15.4,6.9 17.7,13.5 2.1,6.3 0.6,11.9 -4.7,17.4 -4.7,4.9 -17.5,12.4 -23.9,14.1 -6.1,1.6 -22.5,2.7 -22.5,1.5 0,-0.3 2.9,-2.5 6.6,-4.7 11.8,-7.1 15.6,-11.7 15.6,-18.8 -0.0,-9.0 -7.8,-15.9 -19.5,-17.3 -4.5,-0.5 -6.9,0.3 -14.1,4.9 -12.4,8.0 -21.2,20.7 -22.5,32.2 -1.1,11.3 6.9,28.5 18.6,39.3 14.2,13.2 43.0,26.1 62.3,27.9 8.3,0.7 21.3,-3.0 39.7,-11.8 13.5,-6.4 50.2,-27.5 64.7,-37.3 5.9,-3.9 9.4,-6.6 19.3,-14.6 1.3,-1.0 0.6,-1.6 -15.2,-12.5 -35.8,-24.6 -47.3,-34.0 -83.3,-68.2 -36.8,-34.9 -65.0,-56.3 -116.9,-88.6 -26.3,-16.3 -35.8,-21.8 -53.6,-30.7 -22.6,-11.3 -37.7,-17.3 -65.5,-26.1 -18.0,-5.6 -27.4,-8.0 -40.4,-10.3 -18.5,-3.2 -44.2,-2.4 -61.3,1.9 -24.2,6.1 -42.0,20.0 -56.5,44.2 -15.4,25.6 -19.6,52.1 -13.3,83.2 2.1,10.8 4.3,17.2 8.6,26.1 6.2,12.8 11.1,17.5 26.3,25.2 15.0,7.6 40.9,18.5 53.8,22.7 27.1,8.7 46.8,12.5 64.5,12.5 36.1,-0.1 54.5,-9.3 65.5,-32.6 7.1,-15.1 7.7,-31.2 1.6,-47.1 -2.8,-7.5 -4.8,-9.5 -13.6,-14.0 -16.4,-8.4 -29.8,-11.2 -41.3,-8.5 -10.3,2.4 -21.6,10.3 -25.3,17.8 -1.8,3.7 -2.4,9.2 -1.1,11.5 0.3,0.6 6.4,4.7 13.6,9.1 13.5,8.3 20.5,14.0 26.0,21.0 3.2,4.2 3.6,5.7 1.4,5.1 -2.2,-0.5 -28.7,-17.0 -35.1,-21.9 -7.8,-5.8 -19.1,-17.2 -23.3,-23.6 -3.4,-5.1 -5.6,-10.6 -5.6,-14.2 0,-10.0 13.7,-22.7 28.3,-26.1 6.7,-1.5 18.1,-0.9 26.1,1.3 18.2,5.4 35.4,15.9 50.7,31.0 16.3,16.2 23.8,30.7 25.3,49.5 1.2,15.4 -5.8,34.1 -17.3,45.6 -10.7,10.7 -25.0,15.5 -50.2,16.8 -18.0,0.9 -39.1,-2.6 -67.1,-11.3 -15.6,-4.8 -50.8,-19.5 -64.2,-26.8 -24.2,-13.2 -47.9,-36.6 -59.1,-58.3 -14.1,-27.4 -17.2,-62.8 -8.0,-91.0 7.1,-21.8 24.2,-45.7 40.4,-56.4 17.4,-11.6 41.4,-17.1 70.2,-16.1 20.4,0.6 37.2,4.3 71.4,15.7 45.3,15.0 71.2,28.2 132.4,67.4 43.7,28.0 76.8,54.0 115.5,90.7 19.2,18.2 25.6,24.0 34.0,30.7 13.6,10.8 14.4,11.3 7.5,4.0 -18.8,-19.9 -39.6,-47.4 -46.4,-61.5 -8.0,-16.5 -5.8,-30.8 6.6,-43.3 9.6,-9.6 16.8,-11.5 25.0,-6.6 8.9,5.4 20.8,17.5 25.1,25.7 2.5,4.7 10.1,22.1 10.1,23.1 0,2.3 -9.1,-4.3 -15.9,-11.7 -3.7,-4.0 -5.4,-6.6 -7.6,-11.6 -3.1,-7.0 -3.3,-7.1 -7.9,-4.1 -3.9,2.5 -7.9,6.3 -11.2,10.6 -9.9,13.1 -9.3,26.1 2.0,43.6 5.8,9.0 14.6,20.5 21.8,28.9 9.6,11.1 28.9,29.7 37.2,35.8 6.3,4.7 19.2,12.5 22.9,13.9 2.3,0.8 35.6,-30.5 46.1,-43.6 10.4,-12.9 18.4,-26.4 31.6,-53.5 15.7,-32.1 24.4,-57.5 29.0,-84.6 1.5,-9.1 1.5,-23.4 0.0,-29.8 -3.4,-14.5 -14.7,-25.2 -30.2,-28.7 -10.4,-2.3 -25.4,0.3 -38.4,6.8 -13.3,6.6 -22.2,17.7 -25.8,32.0 -1.8,7.5 -2.6,24.4 -1.3,31.5 1.4,7.9 6.6,20.8 9.0,22.3 0.3,0.1 4.1,-5.1 8.4,-11.8 l 7.9,-12.2 4.3,-1.3 c 9.5,-2.9 24.5,-4.1 24.5,-2.0 0,1.5 -17.7,27.4 -21.1,30.9 -6.5,6.5 -15.0,9.6 -29.7,10.8 -9.4,0.7 -14.4,0.0 -18.2,-2.5 -5.7,-3.9 -12.8,-17.9 -14.8,-29.5 -1.8,-10.2 -0.7,-25.9 2.5,-36.2 7.2,-22.7 29.0,-36.1 70.8,-43.5 47.5,-8.3 73.2,0.2 81.5,27.1 1.7,5.7 1.7,24.9 0,34.5 -3.3,18.1 -9.0,37.4 -16.2,55.0 -8.4,20.6 -22.2,48.2 -31.7,63.5 -12.3,19.8 -29.2,37.7 -62.6,66.3 -4.5,3.8 -7.9,7.2 -7.6,7.4 0.7,0.6 26.8,12.4 27.5,12.4 0.3,0 6.1,-4.0 12.9,-8.9 12.6,-9.1 23.6,-16.8 55.8,-38.9 38.2,-26.2 55.9,-42.1 74.3,-66.6 13.8,-18.4 17.7,-30.8 14.5,-46.0 -1.6,-7.6 -6.3,-18.5 -7.9,-18.5 -0.2,0 -4.2,3.5 -8.8,7.9 -9.0,8.6 -10.9,9.6 -22.1,12.3 -5.8,1.3 -13.6,1.8 -13.6,0.7 0,-0.7 17.2,-17.4 21.9,-21.2 9.8,-7.8 34.8,-14.8 44.1,-12.3 9.0,2.4 16.3,17.3 16.4,33.4 0.0,8.6 -1.2,13.9 -5.1,21.9 -2.4,5.0 -13.8,21.0 -18.6,26.4 -2.2,2.5 -2.1,2.4 10.4,-6.6 23.9,-17.2 70.1,-45.3 105.4,-64.2 52.3,-28.0 78.3,-39.3 107.6,-47.1 23.5,-6.2 47.5,-9.0 67.1,-7.6 22.9,1.5 55.0,8.7 75.0,16.8 24.4,9.8 41.4,20.8 53.0,34.2 6.0,6.9 9.7,13.1 13.6,22.7 6.7,16.7 9.6,31.0 9.6,48.7 0,11.8 -0.0,12.3 -2.1,18.3 -3.9,11.2 -8.6,17.4 -19.9,26.4 -15.8,12.6 -45.5,30.3 -78.4,46.8 -22.2,11.1 -47.2,19.2 -70.8,22.8 -13.3,2.0 -39.2,2.2 -51.5,0.3 -23.8,-3.6 -44.7,-11.1 -53.5,-19.1 -10.6,-9.6 -3.4,-24.6 16.5,-34.5 22.0,-10.9 58.4,-17.7 89.7,-16.9 11.4,0.2 15.2,1.2 15.2,4.0 0,1.8 -4.0,5.2 -9.6,7.9 -7.8,3.9 -39.1,16.2 -45.4,17.8 -6.4,1.6 -16.7,2.6 -16.7,1.6 0,-1.1 2.9,-2.5 20.9,-9.7 17.8,-7.2 21.0,-8.8 21.4,-10.8 0.3,-1.6 -3.1,-2.1 -14.4,-2.0 -10.8,0.1 -24.4,1.5 -31.0,3.2 -10.3,2.7 -19.8,11.0 -22.1,19.3 -2.8,10.6 10.4,20.0 38.0,27.0 15.4,3.8 26.5,5.1 41.8,4.6 20.9,-0.6 30.2,-3.6 59.7,-19.2 30.4,-16.1 48.8,-27.4 62.4,-38.2 8.2,-6.5 11.8,-10.6 15.4,-17.5 4.6,-8.9 5.2,-11.9 5.2,-25.7 0,-12.9 -0.5,-17.6 -3.8,-30.6 -6.1,-24.7 -16.7,-40.9 -35.9,-54.8 -7.6,-5.5 -27.6,-15.6 -39.6,-20.0 -11.6,-4.3 -32.0,-9.4 -48.7,-12.3 -11.8,-2.0 -14.6,-2.2 -26.4,-2.2 -29.2,0.0 -47.0,6.2 -102.4,35.2 -46.8,24.6 -95.2,53.8 -123.6,74.6 -9.2,6.7 -44.4,30.4 -67.0,45.0 -22.9,14.8 -51.5,34.0 -57.2,38.4 -20.5,15.9 -31.7,23.8 -48.6,33.9 -5.0,3.0 -8.9,5.6 -8.6,5.8 1.5,0.9 24.7,10.5 32.7,13.6 16.2,6.1 29.6,9.8 58.8,16.0 38.8,8.2 61.0,11.8 88.4,14.4 6.6,0.6 12.8,1.4 13.5,1.8 4.7,2.4 15.2,12.6 18.8,18.1 l 1.2,1.9 -2.3,-0.0 c -3.2,-0.0 -22.9,-1.8 -33.0,-3.1 -25.8,-3.2 -77.8,-13.6 -103.2,-20.6 -16.8,-4.6 -39.9,-13.7 -76.2,-30.0 l -11.4,-5.1 -6.3,3.9 c -20.6,12.8 -53.9,30.1 -70.7,36.7 -14.9,5.8 -42.6,13.9 -56.1,16.4 -5.8,1.0 -19.6,1.9 -22.6,1.4 z m 216.0,-67.9 c 0,-1.1 6.9,-4.0 14.2,-5.8 3.6,-0.9 11.4,-2.1 17.3,-2.8 12.1,-1.2 17.2,-2.7 27.7,-8.0 14.7,-7.4 28.4,-16.2 55.7,-35.9 55.2,-39.9 79.6,-52.9 124.6,-66.5 21.8,-6.6 60.3,-15.2 82.7,-18.4 12.0,-1.7 36.2,-1.7 43.7,-0.0 10.8,2.5 23.7,10.6 27.9,17.5 1.7,2.8 2.1,4.0 2.0,7.6 -0.0,4.9 -1.4,7.9 -4.7,10.4 -5.4,4.1 -20.6,8.5 -32.3,9.2 -10.1,0.6 -9.6,-1.0 1.4,-4.6 4.1,-1.3 4.9,-1.8 5.7,-3.9 3.4,-8.1 -2.7,-16.7 -17.0,-23.9 -7.4,-3.7 -13.7,-5.0 -24.4,-5.1 -10.3,-0.0 -16.8,0.8 -38.3,5.1 -39.7,8.0 -66.9,17.8 -92.9,33.5 -10.5,6.3 -36.5,23.9 -52.4,35.5 -27.7,20.1 -42.3,29.4 -60.5,38.2 -21.1,10.2 -38.4,15.0 -64.0,17.6 -12.1,1.2 -16.4,1.3 -16.4,0.3 z"/></svg></div>
-<script src="version.js?v0.6.5"></script>
-<script src="legal.js?v0.6.5"></script>
-<script src="tagrules.js?v0.6.5"></script>
-<script src="badwords.js?v0.6.5"></script>
+<script src="version.js?v0.6.6"></script>
+<script src="legal.js?v0.6.6"></script>
+<script src="tagrules.js?v0.6.6"></script>
+<script src="badwords.js?v0.6.6"></script>
 <script src="https://www.gstatic.com/firebasejs/10.14.1/firebase-app-compat.js"></script>
 <script src="https://www.gstatic.com/firebasejs/10.14.1/firebase-auth-compat.js"></script>
 <script src="https://www.gstatic.com/firebasejs/10.14.1/firebase-firestore-compat.js"></script>
-<script src="firebase-config.js?v0.6.5"></script>
-<script src="data.js?v0.6.5"></script>
-<script src="app.js?v0.6.5"></script>
-<script src="shine.js?v0.6.5"></script>
+<script src="firebase-config.js?v0.6.6"></script>
+<script src="data.js?v0.6.6"></script>
+<script src="app.js?v0.6.6"></script>
+<script src="shine.js?v0.6.6"></script>
 </body>
 </html>

diff --git a/version.js b/version.js
@@ -1,16 +1,19 @@
-/*! StageMate v0.6.5 · Build 84 · 2026-11-27 */
+/*! StageMate v0.6.6 · Build 85 · 2026-11-27 */
 /* StageMate – Version, Build und Changelog
  * Wird von bump.sh automatisch angepasst (APP_VERSION, APP_BUILD, APP_BUILD_DATE).
  * Versionsregel: kleine Änderung = letzte Zahl +1, grössere Änderung = mittlere Zahl +1,
  * die erste Zahl bestimmt Housi.
  */
-const APP_VERSION = 'v0.6.5';
-const APP_BUILD = 84;
+const APP_VERSION = 'v0.6.6';
+const APP_BUILD = 85;
 const APP_BUILD_DATE = '2026-11-27';
 const APP_PHASE = 'Alpha';
 
 // Neueste Version zuerst. Typen: neu | besser | fix | intern
 const APP_CHANGELOG = [
+  { version: 'v0.6.6', date: '2026-11-27', items: [
+    { type: 'besser', text: 'Icon „SM“: Der lange Strich des S ist kürzer, die linke Kante des M steht jetzt genau in der Mitte.' }
+  ] },
   { version: 'v0.6.5', date: '2026-11-27', items: [
     { type: 'neu', text: 'Neues Icon: das Kürzel „SM“ in der Schrift Over There. Bernstein auf Dunkel im Browser-Tab und auf dem Handy-Startbildschirm, dunkel auf Bernstein als Logo in der App.' }
   ] },

diff --git a/app.js b/app.js
@@ -1,4 +1,4 @@
-/*! StageMate v0.6.5 · Build 84 · 2026-11-27 */
+/*! StageMate v0.6.6 · Build 85 · 2026-11-27 */
 /* StageMate – App-Logik (Oberfläche, Register, Rechte) */
   // Version, Build und Changelog kommen aus js/version.js
   document.querySelectorAll('[data-app-version]').forEach(n => { n.textContent = APP_VERSION; n.title = `${APP_PHASE} · Build ${APP_BUILD} · ${APP_BUILD_DATE}`; });

diff --git a/badwords.js b/badwords.js
@@ -1,4 +1,4 @@
-/*! StageMate v0.6.5 · Build 84 · 2026-11-27 */
+/*! StageMate v0.6.6 · Build 85 · 2026-11-27 */
 /* StageMate – gesperrte Wörter für Nicknames (und Bandnamen)
  * Diese Datei darfst du selbst anpassen (z.B. direkt auf GitHub bearbeiten).
  * Alles in Kleinbuchstaben eintragen. Gross-/Kleinschreibung, Umlaute und

diff --git a/legal.js b/legal.js
@@ -1,4 +1,4 @@
-/*! StageMate v0.6.5 · Build 84 · 2026-11-27 */
+/*! StageMate v0.6.6 · Build 85 · 2026-11-27 */
 /* StageMate – Nutzungsbedingungen und Datenschutzerklärung
  * Vorlage, keine Rechtsberatung. Bei Änderungen LEGAL_VERSION anpassen:
  * dann müssen alle Benutzer die neue Fassung erneut akzeptieren.

diff --git a/firebase-config.js b/firebase-config.js
@@ -1,4 +1,4 @@
-/*! StageMate v0.6.5 · Build 84 · 2026-11-27 */
+/*! StageMate v0.6.6 · Build 85 · 2026-11-27 */
 /* StageMate Web – Verbindung zu Firebase (Projekt stagemate-d0a66).
  * Diese Werte sind nicht geheim; geschützt werden die Daten durch die Firestore-Regeln. */
 window.STAGEMATE_FIREBASE = {

diff --git a/shine.js b/shine.js
@@ -1,4 +1,4 @@
-/*! StageMate v0.6.5 · Build 84 · 2026-11-27 */
+/*! StageMate v0.6.6 · Build 85 · 2026-11-27 */
 /* Glänzende Display-Knöpfe (Regelwerk): Farbe je Aufgabe, ein gemeinsamer Lichtstreifen für alle Knöpfe einer Seite. */
 (function () {
   'use strict';

diff --git a/data.js b/data.js
@@ -1,4 +1,4 @@
-/*! StageMate v0.6.5 · Build 84 · 2026-11-27 */
+/*! StageMate v0.6.6 · Build 85 · 2026-11-27 */
 /* StageMate – Datenschicht
  * ------------------------------------------------------------
  * Die einzige Stelle, die weiss, WO die Daten liegen.

diff --git a/tagrules.js b/tagrules.js
@@ -1,4 +1,4 @@
-/*! StageMate v0.6.5 · Build 84 · 2026-11-27 */
+/*! StageMate v0.6.6 · Build 85 · 2026-11-27 */
 /* StageMate – Regeln für den automatischen Band-Tag
  * Diese Datei darfst du selbst anpassen (z.B. direkt auf GitHub bearbeiten).
  *

diff --git a/app.css b/app.css
@@ -1,4 +1,4 @@
-/*! StageMate v0.6.5 · Build 84 · 2026-11-27 */
+/*! StageMate v0.6.6 · Build 85 · 2026-11-27 */
   :root {
     --sidebar-w: 248px;
     --sidebar-w-collapsed: 68px;
